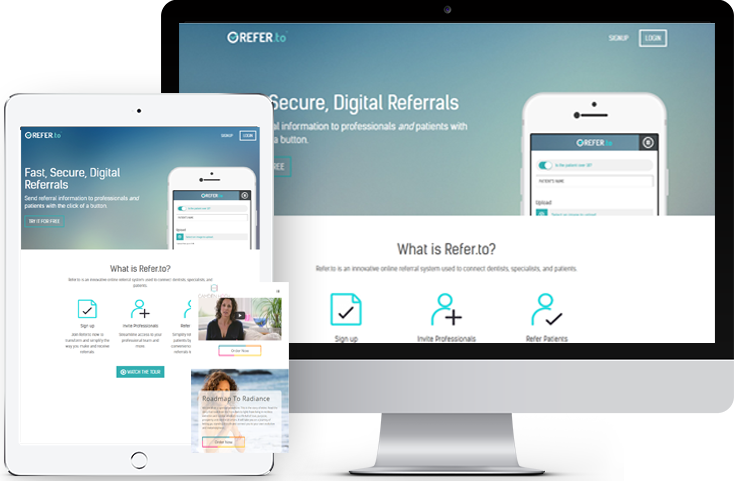
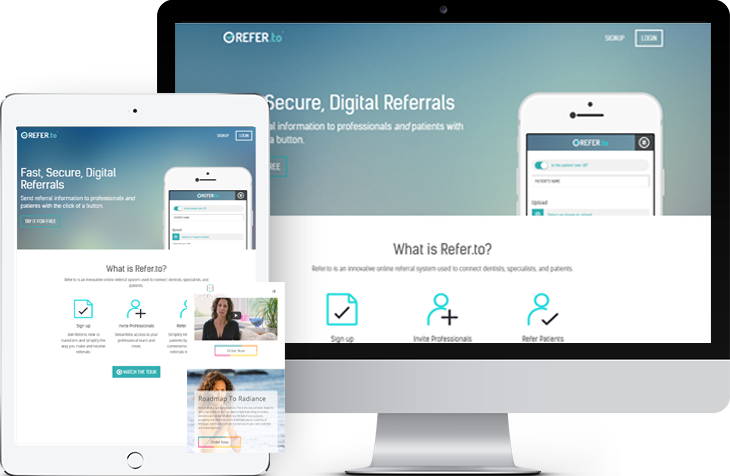
SI-425-coding-block-3-slider

diff --git a/frontendapp/app/components/slider-touch-component.js b/frontendapp/app/components/slider-touch-component.js
@@ -30,12 +30,13 @@ export default Ember.Component.extend({
 
       let sliderItemNode = element.find(".slider__list"),
         prevSliderNode = element.find('.slider__pager_previous'),
-        nextSliderNode = element.find('.slider__pager_next');
+        nextSliderNode = element.find('.slider__pager_next'),
+        paginationNode = element.find('.slider__pagination');
+
 
       let currentSlideIndex = 0,
         imagesCount = sliderItemNode.children().length,
         slideSize = sliderItemNode.outerWidth();
-      // console.log(imagesCount);
 
       this.prevSlide = function () {
         if (currentSlideIndex === 0) {
@@ -43,7 +44,6 @@ export default Ember.Component.extend({
           return;
         }
         currentSlideIndex--;
-        console.log(currentSlideIndex);
       };
 
       this.nextSlide = function () {
@@ -52,13 +52,15 @@ export default Ember.Component.extend({
           return;
         }
         currentSlideIndex++;
-        console.log(currentSlideIndex);
       };
 
+
       this.__render = function () {
-
         sliderItemNode.css({"marginLeft": -(currentSlideIndex * slideSize)});
+        paginationNode.find('.active').removeClass('active');
+        let elem = paginationNode.children()[currentSlideIndex];
 
+        $(elem).find('a').addClass('active');
 
       };
       prevSliderNode.on('click', function (e) {
@@ -72,32 +74,71 @@ export default Ember.Component.extend({
         __self.nextSlide();
         __self.__render();
       });
+      paginationNode.on('click', function(e) {
+        e.preventDefault();
 
+        let link = e.target;
+
+        if (link.tagName !== 'A') { return; }
+
+        currentSlideIndex = +link.dataset['slider__item'];
+
+        __self.__render();
+      });
 
       let mousePageX,
-          mouseMove,
-          size;
+        mouseMove,
+        size,
+        touchPageX,
+        touchMove,
+        touchSize;
 
-      sliderItemNode.on('touchstart mousedown', function (e) {
-        mousePageX = e.pageX;
-        event.preventDefault();
-        // console.log(mousePageX);
-        sliderItemNode.on('touchmove mousemove', function (e) {
-          mouseMove = e.pageX;
-        });
-      });
-      sliderItemNode.on('touchend mouseup', function () {
-        sliderItemNode.off('touchmove mousemove');
-        if(mouseMove > 800){
+      this.swipeSlider = function (item) {
+        if (item > 60) {
           __self.nextSlide();
           __self.__render();
-        }else{
+        }
+        if (item < -60) {
           __self.prevSlide();
           __self.__render();
         }
+      };
+      sliderItemNode.on('touchstart mousedown', function (e) {
+        e.preventDefault();
+        if (e.type == "touchstart") {
+          touchPageX = e.changedTouches[0].pageX;
+        } else {
+          mousePageX = e.pageX;
+        }
+        sliderItemNode.on('touchmove mousemove', function (e) {
+          if (e.type == "touchmove") {
+            touchMove = e.changedTouches[0].pageX;
+          } else {
+            mouseMove = e.pageX;
+          }
+        });
+      });
+      sliderItemNode.on('touchend mouseup', function (e) {
+        if (e.type == "touchend") {
+          touchSize = touchPageX - touchMove;
+          if (touchSize == 0) {
+            sliderItemNode.off('touchmove');
+          } else {
+            __self.swipeSlider(touchSize);
+          }
+        } else {
+          size = mousePageX - mouseMove;
+          if (size == 0) {
+            sliderItemNode.off('mousemove');
+          } else {
+            __self.swipeSlider(size);
+          }
+        }
+
       });
     }
 
     let slider = new Slider();
+
   }
 });

diff --git a/frontendapp/app/styles/slider-touch-component.sass b/frontendapp/app/styles/slider-touch-component.sass
@@ -3,31 +3,32 @@
   .slider
     position: relative
     overflow: hidden
-
+  .slider-item__wrap
+    display: flex
+    align-items: center
   .slider-image
-    float: left
-    width: 50%
+    width: 100%
 
   .slider__img
     height: 100%
-    max-width: 100%
 
   .slider__list
+    font-size: 0
     white-space: nowrap
-    transition: margin .5s ease-out
+    transition: margin .7s ease-out
 
   .slider-title
-    float: left
-    width: 50%
     overflow: hidden
     white-space: initial
-    background: #ccc
     text-align: center
+    padding: 0 60px
 
   .slider-title__title
     font-family: "Roboto-Thin"
     font-size: 72px
     color: #fff
+    font-weight: 400
+    padding-bottom: 44px
     span
       font-family: "Roboto-Medium"
       font-size: 72px
@@ -37,14 +38,45 @@
   .slider-title__desc
     font-family: "Roboto-Light"
     font-size: 18px
+    line-height: 37px
     color: #fff
 
   .slider__item
     display: inline-block
     max-width: 1634px
 
-  .swiperight
-    background: #000
+  .slider__pager_previous
+    position: absolute
+    left: 0
+    top: 0
+    height: 100%
+    width: 70px
+  .slider__pager_next
+    position: absolute
+    right: 0
+    top: 0
+    width: 70px
+    height: 100%
+  .slider__pagination
+    position: absolute
+    right: 0
+    bottom: 7%
+    left: 70%
+
+  .slider__pagination
+    list-style-type: none
+  .slider__pagination-item
+    display: inline-block
+  .slider__pagination-link
+    display: block
+    width: 14px
+    height: 14px
+    border-radius: 50%
+    border: 2px solid #fff
+
+  .slider__pagination-link
+    &.active
+      background: #fff
 
 
 
